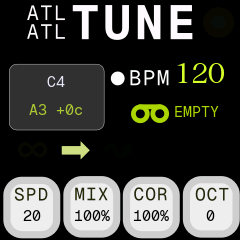
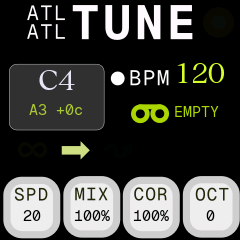
Pitch the recorded sample from the held key

Changed region(s): [[0.1458, 0.2917, 0.3208, 0.3792]]

diff --git a/firmware/apps/atlatl/app.c b/firmware/apps/atlatl/app.c
@@ -33,8 +33,9 @@ static volatile int target = TARGET_NONE;
 static int target_src;
 static volatile uint8_t midi_any;
 static volatile uint8_t rec, playing, rec_done;
-static volatile uint32_t s_w, s_len, s_r, loop_pos;
-static volatile uint32_t loop_period, loop_play;
+static volatile uint32_t s_w, s_len, s_r, s_frac, loop_pos;
+static volatile uint32_t loop_period, loop_play, sample_step = 65536u;
+static uint32_t sample_hz100, rec_hz100;
 static uint32_t loop_div = 4;
 static int clock_active;
 static uint32_t clock_ms, clock_start_ms, clock_count, clock_bpm = 120;
@@ -141,7 +142,20 @@ static void params_changed(void)
     atlatl_target(target);
 }
 
-static void set_target(int midi) { target = midi; atlatl_target(midi); }
+static void sample_step_update(void)
+{
+    uint32_t step = 65536u;
+    if (target >= 0 && sample_hz100) {
+        int hz = atlatl_note_hz100(target);
+        if (hz > 0)
+            step = (uint32_t)(((uint64_t)hz * 65536u) / sample_hz100);
+    }
+    if (step < 16384u) step = 16384u;          /* 0.25x */
+    if (step > 262144u) step = 262144u;        /* 4x */
+    sample_step = step;
+}
+
+static void set_target(int midi) { target = midi; atlatl_target(midi); sample_step_update(); }
 
 static int midi_held_test(uint32_t n) { return (midi_held[n >> 5] >> (n & 31u)) & 1u; }
 
@@ -200,7 +214,9 @@ static void sample_finish(void)
 {
     s_len = s_w;
     sample_trim();
+    sample_hz100 = rec_hz100;                    /* the recorded note is the sample's root */
     rec_done = 0;
+    sample_step_update();
     tempo_recompute();
 }
 
@@ -211,10 +227,14 @@ static void record_start(void)
     rec_done = 0;
     s_w = 0;
     s_len = 0;
+    sample_hz100 = 0;
+    rec_hz100 = 0;
     playing = 0;
     s_r = 0;
+    s_frac = 0;
     loop_pos = 0;
     fm1_irq_on();
+    sample_step_update();
     tempo_recompute();
 }
 
@@ -238,6 +258,7 @@ static void play_toggle(void)
         playing = 0;
     } else if (s_len) {
         s_r = 0;
+        s_frac = 0;
         loop_pos = 0;
         playing = 1;
     }
@@ -308,7 +329,7 @@ static void draw_note(int note, int cents, int voiced)
         note_name(n, target);
     else
         str_cpy(n, "---", sizeof n);
-    ui_text(UI_NOTE_X, UI_NOTE_Y, UI_NOTE_W, 36u, &FONT_S, n, target >= 0 ? C_HI : C_DIM, 1);
+    ui_text(UI_NOTE_X, UI_NOTE_Y, UI_NOTE_W, 36u, &FONT_L, n, target >= 0 ? C_HI : C_DIM, 1);
     if (voiced) {
         note_name(n, note);
         b[0] = 0;
@@ -635,6 +656,8 @@ static void app_frame(const fw_input_t *in)
     {
         int f0, ratio, voiced, clarity, note = 0, cents = 0;
         atlatl_status(&f0, &ratio, &voiced, &clarity);
+        if (rec && voiced && f0 > 0)
+            rec_hz100 = (uint32_t)f0;
         if (voiced)
             note = atlatl_note(&cents);
         draw_ui(note, cents, voiced, play, in->ms);
@@ -665,19 +688,35 @@ static void app_audio(int32_t *lr, uint32_t frames)
     for (i = 0; i < frames; i++) {
         int32_t v = 0, l, r;
         if (playing) {
+            uint32_t frac = s_frac;
             if (p_loop) {
                 if (!loop_period) {
                     playing = 0;
                 } else {
-                    if (loop_pos >= loop_period) loop_pos = 0;
-                    if (loop_pos < loop_play) v = sample[loop_pos];
+                    if (loop_pos >= loop_period) {
+                        loop_pos = 0;
+                        s_r = 0;
+                        frac = 0;
+                    }
+                    if (s_r < loop_play) {
+                        int32_t a = sample[s_r];
+                        int32_t b = s_r + 1u < s_len ? sample[s_r + 1u] : a;
+                        v = a + (int32_t)(((int64_t)(b - a) * frac) >> 16);
+                    }
                     loop_pos++;
+                    frac += sample_step;
+                    while (frac >= 65536u) { frac -= 65536u; s_r++; }
                 }
             } else if (s_r < s_len) {
-                v = sample[s_r++];
+                int32_t a = sample[s_r];
+                int32_t b = s_r + 1u < s_len ? sample[s_r + 1u] : a;
+                v = a + (int32_t)(((int64_t)(b - a) * frac) >> 16);
+                frac += sample_step;
+                while (frac >= 65536u) { frac -= 65536u; s_r++; }
             } else {
                 playing = 0;
             }
+            s_frac = frac;
         }
         if (!gate) {
             l = r = 0;

diff --git a/tests/sampler_test.py b/tests/sampler_test.py
@@ -118,6 +118,31 @@ wav {wav}/trim.wav
     assert peak(play) > 2000, "sampler did not play the recorded tone"
     assert peak(tail(x, sr, 0.08)) < 500, "leading/trailing silence was not trimmed"
 
+
+    # A key must pitch the recorded sample: record 440 Hz, play it at C4.
+    pitch_script = f"""master 1023
+frames 20
+usbtone 440 -10
+usbrec 2
+btn REC down
+frames 40
+btn REC up
+usbtone 0
+frames 5
+midi 0x90 60 100
+btn PLAY down
+frames 1
+btn PLAY up
+frames 60
+wav {wav}/pitched.wav
+midi 0x80 60 0
+"""
+    run("pitched", pitch_script)
+    sr, x = read_wav(wav / "pitched.wav")
+    x = tail(x, sr, 0.20)
+    tuned, root = tone(x, sr, 261.6256), tone(x, sr, 440.0)
+    assert tuned > root * 2.0, f"sample did not follow C4 (C4 {tuned:.0f}, root {root:.0f})"
+
     print("sampler_test: ok")
 
 

diff --git a/tools/gen_font.py b/tools/gen_font.py
@@ -22,7 +22,7 @@ FONTS = Path(__file__).resolve().parents[1] / "assets" / "fonts"
 # (name, file, px, scale, pixel, first, last): pixel fonts are rendered without
 # anti-aliasing at their design size and enlarged by an integer factor
 SIZES = [("S", "GeistMono-Regular.ttf", 15, 1, False, 32, 126),   # printable ASCII
-         ("L", "GeistSerif-Regular.ttf", 28, 1, False, 48, 57)]    # BPM numerals only
+         ("L", "GeistSerif-Regular.ttf", 28, 1, False, 35, 71)]    # target notes and BPM numerals
 PAD = 2
 
 

diff --git a/firmware/apps/atlatl/atlatl_dsp.h b/firmware/apps/atlatl/atlatl_dsp.h
@@ -11,4 +11,5 @@ void atlatl_fold(int fold);
 void atlatl_process(const int16_t *in, int32_t *out, uint32_t n);   /* Q15 stereo */
 void atlatl_status(int *f0_x100, int *ratio_x100, int *voiced, int *clarity);
 int atlatl_note(int *cents);                   /* nearest MIDI note to the last f0 */
+int atlatl_note_hz100(int midi);               /* equal-tempered note frequency, Hz * 100 */
 #endif

diff --git a/firmware/apps/atlatl/dsp.c b/firmware/apps/atlatl/dsp.c
@@ -38,6 +38,11 @@ void atlatl_status(int *f0_x100, int *ratio_x100, int *voiced, int *clarity)
     *clarity = (int)(dsp.clarity * 100.0f);
 }
 
+int atlatl_note_hz100(int midi)
+{
+    return (int)(at_note_freq(&dsp, midi) * 100.0f + 0.5f);
+}
+
 int atlatl_note(int *cents)
 {
     float c;

diff --git a/README.md b/README.md
@@ -38,11 +38,11 @@ FM-1 output ──► USB audio IN: the computer can record what the speaker pla
 - **Key-targeted tuning**: a held key is the target note. The input is analyzed for its fundamental, the target is
   folded to the octave nearest the singer, and a phase-synchronous granular shifter moves the input to the target.
   Releasing the keys returns to the dry signal unless **FX** latches the note.
-- **Three-second sampler**: hold **REC** to capture the USB input (mono, at the codec rate) while the live tuner
-  keeps playing. **PLAY** plays the sample once; **SEQ** makes it loop. The loop length is the note length nearest
-  the sample's own length at the current tempo (whole, half, quarter, eighth, sixteenth, and thirds/ninths), so a
-  sample is clipped or followed by silence to land on the note grid. The sample is mixed with the live input when
-  both play.
+- **Three-second sampler**: hold **REC** to capture the USB input unaltered (mono, at the codec rate) while the
+  live tuner keeps playing. **PLAY** plays it once; **SEQ** loops it. The recorded note is the sample's root, and
+  holding a key pitches the sample to that note like a one-note instrument. The loop length is the note length
+  nearest the sample's own length at the current tempo (whole, half, quarter, eighth, sixteenth, and thirds/ninths),
+  so it is clipped or followed by silence to land on the note grid. It mixes with the live input when both play.
 - **Tempo and mask**: **SELECT** sets 30–300 BPM; USB-MIDI clock overrides it while clocks arrive. **ARP** masks
   the output so sound only passes while a key is held. **FX** latches the target, which makes the mask always on.
 - **The four knobs** set speed, mix, correction and octave. **EDIT** switches auto-octave folding; **SAVE** stores

diff --git a/docs/releases/0.6.md b/docs/releases/0.6.md
@@ -1,0 +1,15 @@
+# Atl-Atl: The Atltuner 0.6
+
+This release turns the sample into a playable one-note instrument.
+
+## What is new
+
+- **The sample is recorded unaltered.** REC captures the USB input before the tuner.
+- **The keys pitch the sample.** The recorded note becomes the sample's root. Playing the sample while holding a key
+  shifts it to that note, so one recorded note can be played up and down the keyboard. The sample still mixes with
+  the live input.
+- **Geist Serif now covers the target note and the BPM number.** Both use the large serif numerals and note letters;
+  Geist Mono remains the small UI font. The leftover Terminus font files are gone.
+- **Antialiasing is blended over the real background**, not just over black.
+
+The package is `atlatl-0.6.fwsc` for the 48 kHz codec. The firmware identity stays `FM-1_922`.

diff --git a/docs/DEVELOPING.md b/docs/DEVELOPING.md
@@ -84,7 +84,7 @@ FW_SINE[FW_SINE_N]                // int16 sine, 1024 points
 
 Drawing (`gfx.c`): `lcd_fill(x, y, w, h, color)`, `draw_text_box(x, y, w, &FONT_S, "txt", color, align)`, and for
 graphics the canvas: `cv_begin(w, h, bg)` → `cv_text / cv_rect / cv_line / cv_pset` → `cv_blit(x, y)`. The canvas is
-at most 240×124, so a screen is drawn in strips. Fonts: `FONT_S` (Geist Mono 15 px, ASCII), `FONT_L` (Geist Serif 28 px, BPM digits). Colours: `RGB(r, g, b)`,
+at most 240×124, so a screen is drawn in strips. Fonts: `FONT_S` (Geist Mono 15 px, ASCII), `FONT_L` (Geist Serif 28 px, target note + BPM digits). Colours: `RGB(r, g, b)`,
 `C_BLACK C_WHITE C_HI C_GRAY C_DIM C_ACCENT`.
 
 ## Rules
